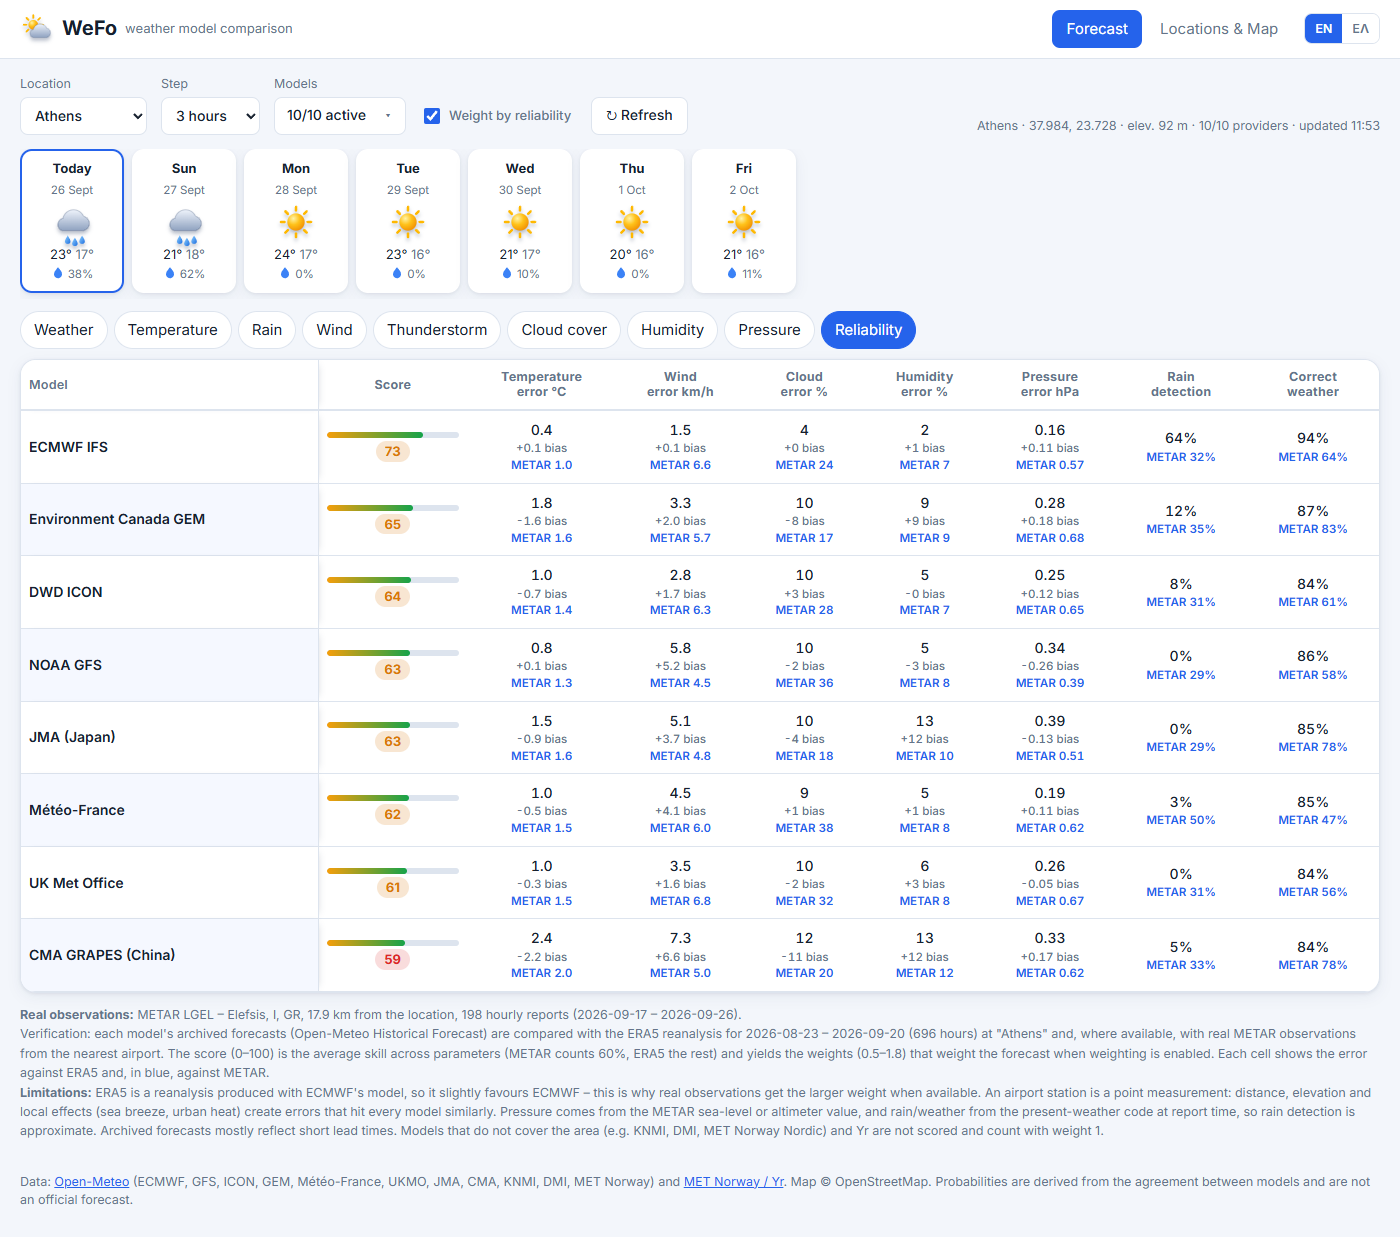
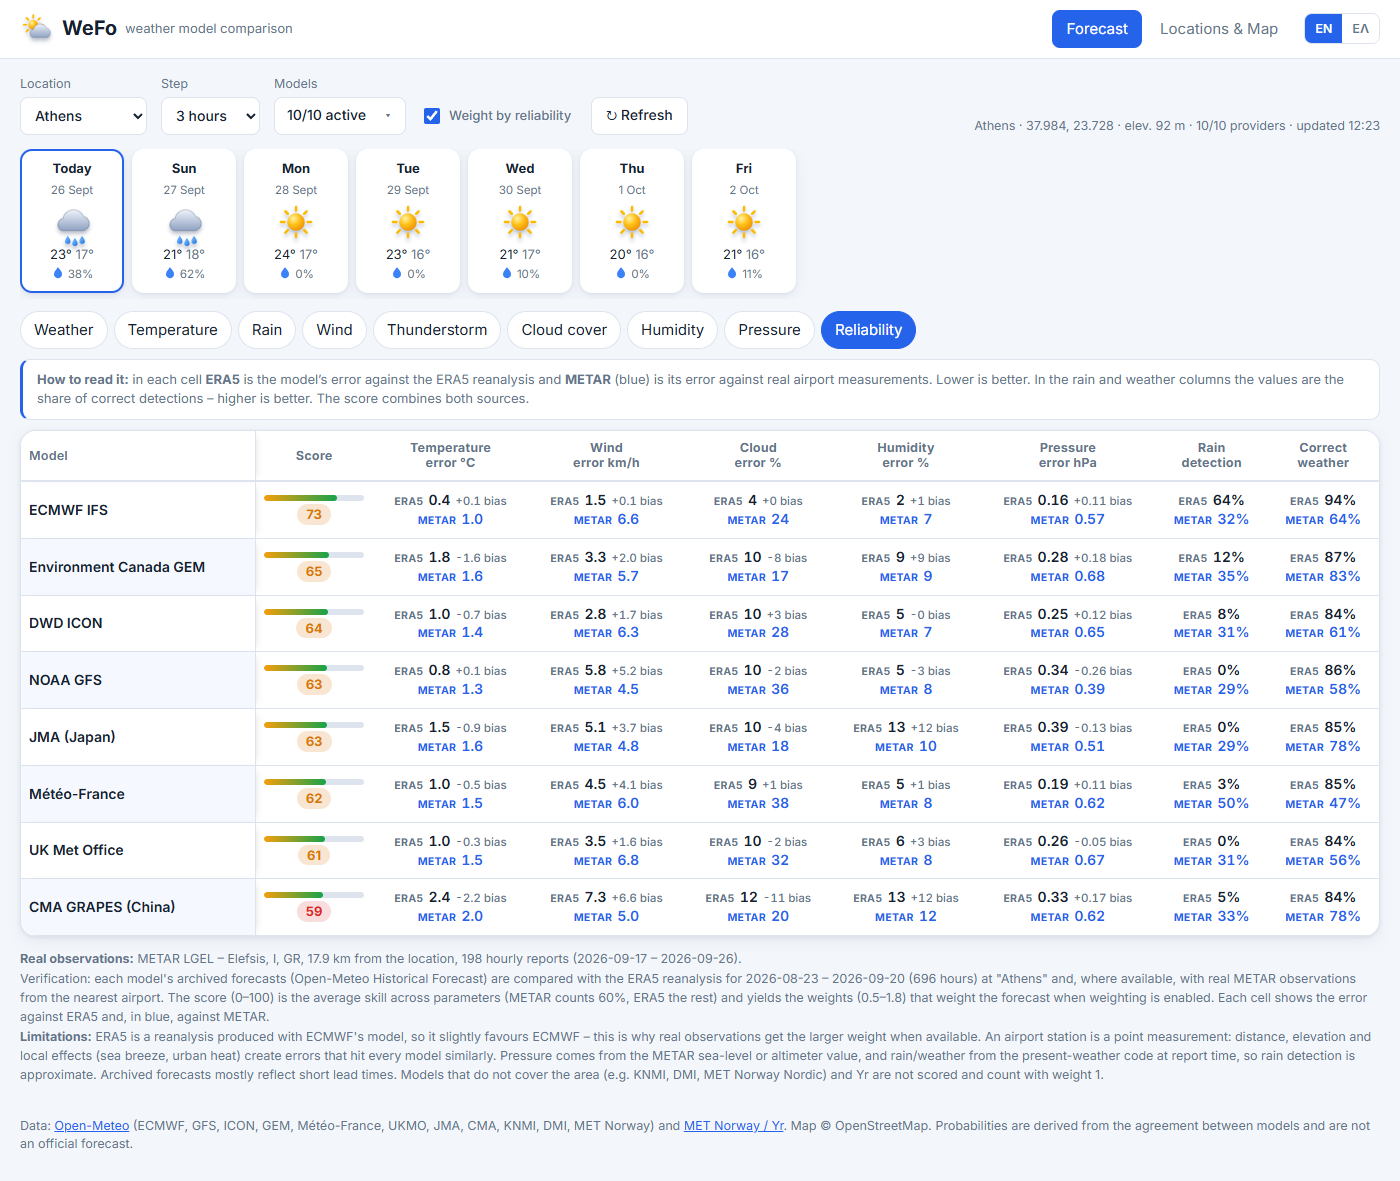
Explicit ERA5/METAR labels and explanation in reliability table; add collage; refresh screenshots

diff --git a/js/app.js b/js/app.js
@@ -285,15 +285,18 @@ function renderReliability() {
   if (!v) {
     $('grid').innerHTML = `<tbody><tr><td class="pad">${state.verifyErr ? esc(t('r.unavailable', { e: state.verifyErr })) : t('r.loading')}</td></tr></tbody>`;
     $('legend').textContent = '';
+    $('relNote').hidden = true;
     return;
   }
   const ids = Object.entries(v.models).sort((a, b) => (b[1].score ?? -1) - (a[1].score ?? -1));
+  const src = (label, value, extra = '', cls = '') => `<div class="src ${cls}"><i>${label}</i> <b>${value}</b>${extra}</div>`;
   const mae = (m, k, d = 1) => {
     if (m.mae[k] == null) return '–';
     const o = m.obs?.mae?.[k];
-    return `${m.mae[k].toFixed(d)}<small>${t('r.bias', { v: (m.bias[k] > 0 ? '+' : '') + m.bias[k].toFixed(d) })}</small>${o != null ? `<small class="obs">${t('r.obs', { v: o.toFixed(d) })}</small>` : ''}`;
+    const bias = `<small>${t('r.bias', { v: (m.bias[k] > 0 ? '+' : '') + m.bias[k].toFixed(d) })}</small>`;
+    return src('ERA5', m.mae[k].toFixed(d), bias) + (o != null ? src('METAR', o.toFixed(d), '', 'obs') : '');
   };
-  const pct = (e, o) => (e != null ? Math.round(e * 100) + '%' : '–') + (o != null ? `<small class="obs">${t('r.obs', { v: Math.round(o * 100) + '%' })}</small>` : '');
+  const pct = (e, o) => (e != null ? src('ERA5', Math.round(e * 100) + '%') : '–') + (o != null ? src('METAR', Math.round(o * 100) + '%', '', 'obs') : '');
   let html = `<thead><tr><th class="rowh">${t('r.model')}</th><th>${t('r.score')}</th><th>${t('r.temp')}</th><th>${t('r.wind')}</th><th>${t('r.cloud')}</th><th>${t('r.hum')}</th><th>${t('r.press')}</th><th>${t('r.rain')}</th><th>${t('r.code')}</th></tr></thead><tbody>`;
   ids.forEach(([id, m]) => {
     html += `<tr class="${state.disabled.has(id) ? 'off' : ''}"><th class="rowh">${esc(nameById(id))}${state.disabled.has(id) ? ` <small>${t('r.disabled')}</small>` : ''}</th>
@@ -303,6 +306,7 @@ function renderReliability() {
       <td class="cell">${pct(m.csi, m.obs?.csi)}</td><td class="cell">${pct(m.code_acc, m.obs?.code_acc)}</td></tr>`;
   });
   $('grid').innerHTML = html + '</tbody>';
+  $('relNote').innerHTML = t('r.howto'); $('relNote').hidden = false;
   const st = v.station
     ? t('r.station', { id: v.station.id, name: esc(v.station.name), km: v.station.km, n: v.station.reports, start: v.station.start, end: v.station.end })
     : t('r.nostation', { km: 60 });
@@ -313,6 +317,7 @@ const badge = (id) => { const sc = state.verify?.models?.[id]?.score; return sc 
 
 function renderGrid() {
   const { data, param } = state;
+  $('relNote').hidden = param !== 'reliability';
   if (param === 'reliability') return renderReliability();
   const cols = columns();
   const { rows, summary, prob, summaryLabel, probLabel } = buildRows(param, cols);

diff --git a/js/i18n.js b/js/i18n.js
@@ -47,6 +47,7 @@ const I18N = {
     'r.station': '<b>Real observations:</b> METAR {id} – {name}, {km} km from the location, {n} hourly reports ({start} – {end}).',
     'r.nostation': '<b>Real observations:</b> no METAR station with enough recent reports within {km} km – ERA5 only.',
     'r.obs': 'METAR {v}',
+    'r.howto': '<b>How to read it:</b> in each cell <b>ERA5</b> is the model’s error against the ERA5 reanalysis and <b>METAR</b> (blue) is its error against real airport measurements. Lower is better. In the rain and weather columns the values are the share of correct detections – higher is better. The score combines both sources.',
     'vf.loading': '· loading reliability…', 'vf.unavail': '· unavailable',
 
     'm.active': '{a}/{n} active', 'm.dup': 'Same data as {n} (outside its coverage) – not counted twice',
@@ -132,6 +133,7 @@ const I18N = {
     'r.station': '<b>Πραγματικές μετρήσεις:</b> METAR {id} – {name}, {km} km από την τοποθεσία, {n} ωριαίες αναφορές ({start} – {end}).',
     'r.nostation': '<b>Πραγματικές μετρήσεις:</b> δεν υπάρχει σταθμός METAR με αρκετές πρόσφατες αναφορές σε απόσταση {km} km – χρησιμοποιείται μόνο το ERA5.',
     'r.obs': 'METAR {v}',
+    'r.howto': '<b>Πώς διαβάζεται:</b> σε κάθε κελί το <b>ERA5</b> είναι το σφάλμα του μοντέλου ως προς την ανάλυση ERA5 και το <b>METAR</b> (μπλε) το σφάλμα ως προς πραγματικές μετρήσεις αεροδρομίου. Όσο μικρότερο τόσο καλύτερο. Στις στήλες βροχής και καιρού οι τιμές είναι το ποσοστό σωστών εντοπισμών – όσο μεγαλύτερο τόσο καλύτερο. Ο βαθμός συνδυάζει και τις δύο πηγές.',
     'vf.loading': '· φόρτωση αξιοπιστίας…', 'vf.unavail': '· μη διαθέσιμη',
 
     'm.active': '{a}/{n} ενεργά', 'm.dup': 'Ίδια δεδομένα με {n} (εκτός περιοχής κάλυψης) – δεν μετράει διπλά',

diff --git a/index.html b/index.html
@@ -8,7 +8,7 @@
 <link rel="preconnect" href="https://fonts.googleapis.com"><link rel="preconnect" href="https://fonts.gstatic.com" crossorigin>
 <link rel="stylesheet" href="https://fonts.googleapis.com/css2?family=Inter:wght@400;500;600;700&display=swap&subset=greek">
 <link rel="stylesheet" href="https://unpkg.com/leaflet@1.9.4/dist/leaflet.css">
-<link rel="stylesheet" href="css/style.css?v=20261009">
+<link rel="stylesheet" href="css/style.css?v=20261010">
 </head>
 <body>
 <header class="topbar">
@@ -58,6 +58,7 @@
     <div id="forecastBody" hidden>
       <div id="days" class="days"></div>
       <div id="tabs" class="tabs"></div>
+      <div id="relNote" class="relnote" hidden></div>
       <div class="table-wrap"><table id="grid" class="grid"></table></div>
       <div id="legend" class="legend"></div>
     </div>
@@ -96,8 +97,8 @@
 <footer data-i18n-html="footer.html"></footer>
 
 <script src="https://unpkg.com/leaflet@1.9.4/dist/leaflet.js"></script>
-<script src="js/i18n.js?v=20261009"></script>
-<script src="js/icons.js?v=20261009"></script>
-<script src="js/app.js?v=20261009"></script>
+<script src="js/i18n.js?v=20261010"></script>
+<script src="js/icons.js?v=20261010"></script>
+<script src="js/app.js?v=20261010"></script>
 </body>
 </html>

diff --git a/css/style.css b/css/style.css
@@ -208,3 +208,11 @@ select, input[type=text], input[type=number], input[type=search] { font: inherit
 
 /* METAR values inside the reliability table */
 .grid td small.obs { color: var(--accent); font-weight: 600; }
+
+/* Reliability cells with explicit source labels */
+.src { display: flex; align-items: baseline; justify-content: center; gap: 5px; line-height: 1.35; white-space: nowrap; }
+.src i { font-style: normal; font-size: 10.5px; font-weight: 700; letter-spacing: .03em; color: var(--muted); }
+.src b { font-weight: 600; }
+.src small { display: inline !important; }
+.src.obs, .src.obs i { color: var(--accent); }
+.relnote { margin: 0 0 10px; padding: 10px 14px; border: 1px solid var(--line); border-left: 3px solid var(--accent); border-radius: 10px; background: var(--panel); color: var(--muted); font-size: 13px; line-height: 1.5; }
